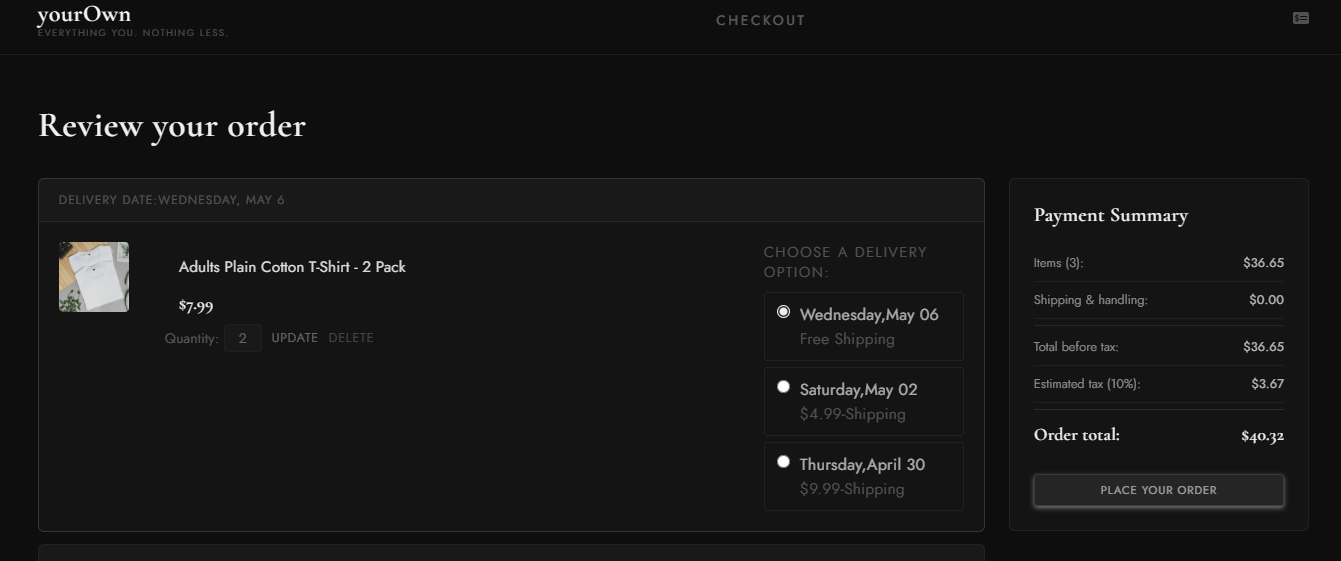
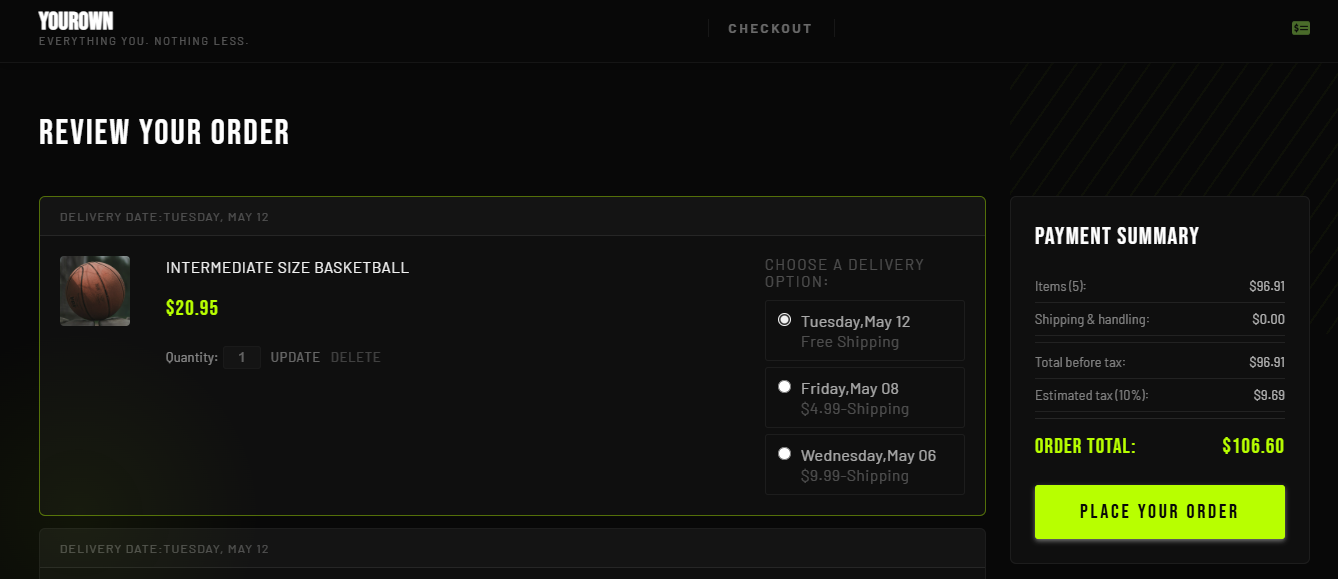
updated readme

diff --git a/readme.md b/readme.md
@@ -1,113 +1,138 @@
-# 🛒 E-Commerce Store
+# yourOwn Store 🛒
 
-A full-stack e-commerce web application built with **React** (Vite) on the frontend and **Node.js/Express** on the backend. Features product browsing, cart management, checkout flow, order tracking, and more.
+> **Everything You. Nothing Less.**  
+> A full-stack e-commerce web application built with React, Node.js, Express, and SQLite.
+
+---
+
+## 📸 Screenshots
+
+| Home | Checkout | Orders |
+|------|----------|--------|
+| ![Home](screenshots/home.png) | ![Checkout](screenshots/checkout.png) | ![Orders](screenshots/orders.png) |
 
 ---
 
 ## ✨ Features
 
-- 🔍 **Product Search** — Search products in real time via query params
-- 🛍 **Product Grid** — Browse products with ratings, pricing, and quantity selection
-- 🛒 **Cart System** — Add to cart with live quantity badge on header
-- 💳 **Checkout Flow** — Cart summary, delivery options, and payment summary
-- 📦 **Orders Page** — View past orders with buy-again support
-- 🚚 **Order Tracking** — Track delivery status per order
-- 🔔 **Toast Notifications** — Non-intrusive feedback on user actions
-- 📱 **Fully Responsive** — Mobile-first design across all pages
+- 🔐 **JWT Authentication** — Signup, login, and protected routes
+- 🛍 **Product Browsing** — Search and filter 40+ products
+- 🛒 **Cart Management** — Add, update quantity, delete items
+- 🚚 **Delivery Options** — Choose from 3 delivery speeds per item
+- 💳 **Payment Summary** — Live cost breakdown with 10% tax
+- 📦 **Order Tracking** — Visual progress bar (Preparing → Shipped → Delivered)
+- 🔄 **Buy Again** — Re-add past order items to cart instantly
+- 🧪 **Unit Tests** — Vitest + React Testing Library coverage
 
 ---
 
 ## 🗂 Project Structure
 
 ```
-root/
-├── frontend/     ← React + Vite
-└── backend/      ← Node.js + Express
+yourOwn-store/
+├── backend/                  # Node.js + Express API
+│   ├── models/               # Sequelize models (User, Product, CartItem, Order)
+│   ├── routes/               # REST API routes
+│   ├── middleware/           # JWT auth middleware
+│   ├── defaultData/          # Seed data
+│   └── server.js             # Entry point
+│
+└── frontend/                 # React + Vite SPA
+    └── src/
+        ├── components/       # Header, Toast, ProtectedRoute
+        ├── context/          # Auth context (JWT state)
+        ├── pages/
+        │   ├── home/         # Product grid + search
+        │   ├── checkout/     # Cart, delivery options, payment
+        │   ├── orders/       # Order history + buy again
+        │   ├── account/      # Login & Signup
+        │   └── TrackingPage  # Package tracking
+        └── utils/            # Money formatter
 ```
 
 ---
 
-## 🖥 Frontend
+## 🛠 Tech Stack
 
-**Stack:** React, Vite, React Router, Axios, CSS
+### Frontend
+| Tech | Purpose |
+|------|---------|
+| React 19 | UI framework |
+| React Router v7 | Client-side routing |
+| Axios | HTTP requests |
+| Day.js | Date formatting |
+| Vite | Build tool |
+| Vitest + Testing Library | Unit testing |
 
-```
-src/
-├── components/        ← Header, Toast
-├── pages/
-│   ├── home/          ← Product listing & search
-│   ├── checkout/      ← Cart, delivery, payment
-│   ├── orders/        ← Order history
-│   └── TrackingPage   ← Order tracking
-└── utils/             ← Money formatting helpers
-```
-
-### Setup
-
-```bash
-cd frontend
-npm install
-npm run dev
-```
-
-Runs on `http://localhost:5173`
-
----
-
-## ⚙ Backend
-
-**Stack:** Node.js, Express
-
-Provides REST API endpoints consumed by the frontend.
-
-| Method | Endpoint | Description |
-|--------|----------|-------------|
-| GET | `/api/products` | Get all products |
-| GET | `/api/products?search=` | Search products by keyword |
-| GET | `/api/cart` | Get cart items |
-| POST | `/api/cart` | Add item to cart |
-| PUT | `/api/cart/:id` | Update cart item quantity |
-| DELETE | `/api/cart/:id` | Remove item from cart |
-| GET | `/api/orders` | Get all orders |
-
-### Setup
-
-```bash
-cd backend
-npm install
-npm start
-```
-
-Runs on `http://localhost:3000`
+### Backend
+| Tech | Purpose |
+|------|---------|
+| Node.js + Express | REST API server |
+| Sequelize ORM | Database abstraction |
+| SQLite (sql.js) | Embedded database |
+| JWT (jsonwebtoken) | Authentication tokens |
+| bcryptjs | Password hashing |
+| nodemon | Dev auto-restart |
 
 ---
 
 ## 🚀 Getting Started
 
-**1. Clone the repo**
+### Prerequisites
+- Node.js **v22** (required — v24 has a known crash with sql.js-as-sqlite3)
+- npm
+
+### 1. Clone the repo
+
 ```bash
-git clone https://github.com/qasim-akram/yourOwn-Ecommerce-store.git
-cd yourOwn-Ecommerce-store
+git clone https://github.com/Qasim-Akram/yourOwn-store.git
+cd yourOwn-store
 ```
 
-**2. Start the backend**
+### 2. Start the Backend
+
 ```bash
 cd backend
 npm install
-npm start
+npm run dev
 ```
 
-**3. Start the frontend**
+Backend runs at `http://localhost:3000`
+
+### 3. Start the Frontend
+
+Open a new terminal:
+
 ```bash
 cd frontend
 npm install
 npm run dev
 ```
 
-**4. Open in browser**
-```
-http://localhost:5173
-```
+Frontend runs at `http://localhost:5173`
+
+> The frontend proxies all `/api` requests to the backend automatically via Vite config.
+
+---
+
+## 🔌 API Reference
+
+| Method | Endpoint | Description | Auth |
+|--------|----------|-------------|------|
+| POST | `/api/auth/signup` | Register new user | ❌ |
+| POST | `/api/auth/login` | Login, returns JWT | ❌ |
+| GET | `/api/auth/me` | Get current user | ✅ |
+| GET | `/api/products` | List all products | ✅ |
+| GET | `/api/products?search=...` | Search products | ✅ |
+| GET | `/api/cart-items` | Get cart | ✅ |
+| POST | `/api/cart-items` | Add to cart | ✅ |
+| PUT | `/api/cart-items/:productId` | Update quantity/delivery | ✅ |
+| DELETE | `/api/cart-items/:productId` | Remove from cart | ✅ |
+| GET | `/api/orders` | Get all orders | ✅ |
+| POST | `/api/orders` | Place order (clears cart) | ✅ |
+| GET | `/api/orders/:orderId` | Get single order | ✅ |
+| GET | `/api/payment-summary` | Cart cost breakdown | ✅ |
+| POST | `/api/reset` | Reset DB to defaults | ✅ |
 
 ---
 
@@ -118,40 +143,31 @@ cd frontend
 npm run test
 ```
 
-Tests are written with **Vitest** and cover:
-- `HomePage` rendering
-- `Product` component
-- `money.js` utility formatting
+Tests cover:
+- `formatMoney()` utility function
+- `Product` component rendering and add-to-cart behavior
+- `HomePage` product grid rendering
 
 ---
 
-## 🌍 Environment Variables
+## ⚠ Known Issues & Notes
 
-Create a `.env` file in the **backend** folder:
-
-```env
-PORT=3000
-MONGO_URI=http://localhost:3000
-```
-
-Create a `.env` file in the **frontend** folder:
-
-```env
-VITE_API_URL=http://localhost:3000
-```
-
-> ⚠ Never commit `.env` files — they are already in `.gitignore`
+- **Node.js v24 incompatibility** — The `sql.js-as-sqlite3` package crashes on Node v24 due to a libuv async handle issue. Use **Node v22 LTS**.
+- The SQLite database persists to `backend/database.sqlite`. Hit `POST /api/reset` to restore default data.
+- JWT tokens expire after **7 days**.
 
 ---
 
-## 📸 Screenshots
+## 👤 Author
 
-![Home Page](screenshots/home.png)
-![Checkout Page](screenshots/checkout.png)
-![Orders Page](screenshots/orders.png)
+**Muhammad Qasim**  
+🎓 BSCS Student — Islamia University of Bahawalpur  
+🔗 [github.com/Qasim-Akram](https://github.com/Qasim-Akram)  
+💼 [linkedin.com/in/qasimakram](https://linkedin.com/in/qasimakram)  
+🌐 [mqasimakram.netlify.app](https://mqasimakram.netlify.app)
 
 ---
 
 ## 📄 License
 
-MIT — free to use and modify.
+This project is open source and available under the [MIT License](LICENSE).
